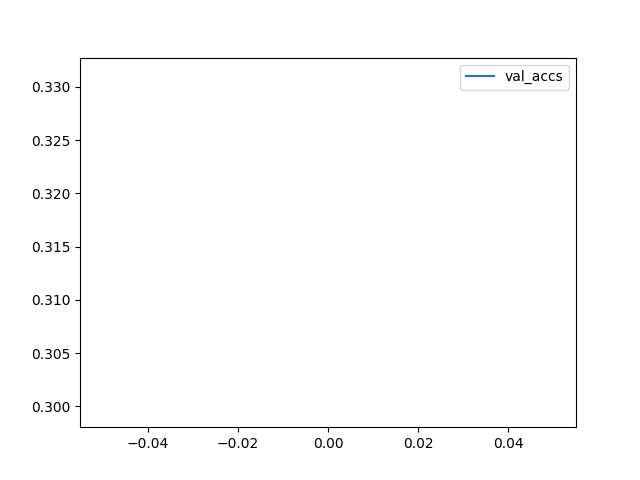
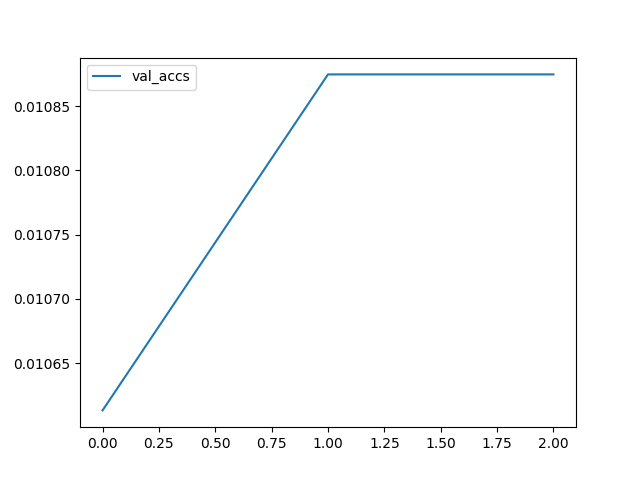
not applicable

diff --git a/Trainer.py b/Trainer.py
@@ -49,7 +49,7 @@ class Trainer:
 
         self.optimizer = torch.optim.Adam(self.pre.parameters(), lr=config["lr"])
 
-        self.criterion = nn.CrossEntropyLoss()
+        self.criterion = nn.MSELoss(reduction="mean")
 
         self.clip_value = config["clip_value"]
 
@@ -63,6 +63,7 @@ class Trainer:
 
         total_loss = 0
         total_correct = 0
+        total_predictions = 0
 
         for i, (data, max_len, label) in enumerate(tqdm(self.val_loader)):
             data = data.to(self.config["device"])
@@ -75,15 +76,13 @@ class Trainer:
             loss = self.criterion(output, label)
             total_loss += loss.item()
 
-            total_correct += (output.argmax(1) == label).sum().item()
-
-            if i == 100:
-                break
+            total_correct += ( (output.argmax(2) == label.argmax(2)) * (label.argmax(2) != 0) ).sum().item()
+            total_predictions += max_len.sum().item()
             
         val_losses.append(total_loss / len(self.val_loader))
-        val_accs.append(total_correct / len(self.val_loader.dataset))
+        val_accs.append(total_correct / total_predictions)
 
-        print(f"Validation accuracy: {total_correct / len(self.val_loader.dataset)}")
+        print(f"Validation accuracy: {total_correct / total_predictions}")
         print(f"Validation loss: {total_loss / len(self.val_loader)}")
 
     def train(self, train_losses: list):
@@ -101,16 +100,13 @@ class Trainer:
             self.optimizer.zero_grad()
 
             output = self.pre(data, max_len)
-
+            
             loss = self.criterion(output, label)
             total_loss += loss.item()
 
             loss.backward()
             torch.nn.utils.clip_grad_norm_(self.pre.parameters(), self.clip_value)
             self.optimizer.step()
-            
-            if i == 900:
-                break
 
 
         train_losses.append(total_loss / len(self.train_loader))

diff --git a/Conformer.py b/Conformer.py
@@ -6,9 +6,9 @@ import torch
 __all__ = ["Conformer"]
 
 
-def _lengths_to_padding_mask(lengths: torch.Tensor) -> torch.Tensor:
+def _lengths_to_padding_mask(lengths: torch.Tensor, max_len: int) -> torch.Tensor:
     batch_size = lengths.shape[0]
-    max_length = int(torch.max(lengths).item())
+    max_length = max_len
     padding_mask = torch.arange(max_length, device=lengths.device, dtype=lengths.dtype).expand(
         batch_size, max_length
     ) >= lengths.unsqueeze(1)
@@ -270,12 +270,13 @@ class Conformer(torch.nn.Module):
             ]
         )
 
-    def forward(self, input: torch.Tensor, lengths: torch.Tensor) -> Tuple[torch.Tensor, torch.Tensor]:
+    def forward(self, input: torch.Tensor, lengths: torch.Tensor, max_len: int) -> Tuple[torch.Tensor, torch.Tensor]:
             r"""
             Args:
                 input (torch.Tensor): with shape `(B, T, input_dim)`.
                 lengths (torch.Tensor): with shape `(B,)` and i-th element representing
                     number of valid frames for i-th batch element in ``input``.
+                max_len (int): maximum length of input sequence.
 
             Returns:
                 (torch.Tensor, torch.Tensor)
@@ -285,7 +286,7 @@ class Conformer(torch.nn.Module):
                         output lengths, with shape `(B,)` and i-th element representing
                         number of valid frames for i-th batch element in output frames.
             """
-            encoder_padding_mask = _lengths_to_padding_mask(lengths)
+            encoder_padding_mask = _lengths_to_padding_mask(lengths, max_len=max_len)
 
             x = input.transpose(0, 1)
             for layer in self.conformer_layers:

diff --git a/Model.py b/Model.py
@@ -154,6 +154,8 @@ class Predictor(nn.Module):
             nn.Softmax(dim=-1),
         )
 
+        self.max_len = max_len
+
     def forward(self, x: torch.Tensor, lengths: torch.Tensor):
         """
         Forward pass of the Generator (Conformer model).
@@ -186,7 +188,7 @@ class Predictor(nn.Module):
         preprocessed_output = self.positional_encoding(transformed_output)
 
         # Pass the input through the Conformer layers
-        conformer_output, _ = self.conformer(preprocessed_output, lengths)
+        conformer_output, _ = self.conformer(preprocessed_output, lengths, self.max_len)
 
         # Pass the output through the linear layer
         output = self.output_layer(conformer_output)

diff --git a/main.py b/main.py
@@ -44,11 +44,11 @@ config = {
     "dis_path": "data/models/dis",
     "device": torch.device("cuda" if torch.cuda.is_available() else "cpu"),
     # "device": torch.device("cpu"),
-    "batch_size": 24,
+    "batch_size": 20,
     "clip_value": 1,
     "data_len": goDataset.get_longest_game(),
-    "epochs": 1,
-    "early_stop": 1,
+    "epochs": 3,
+    "early_stop": 3,
     "selected": 0
 }
 
